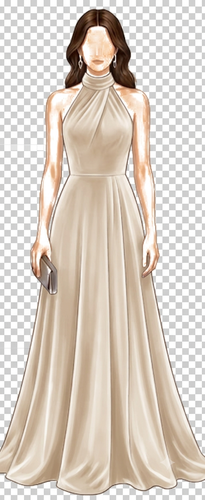
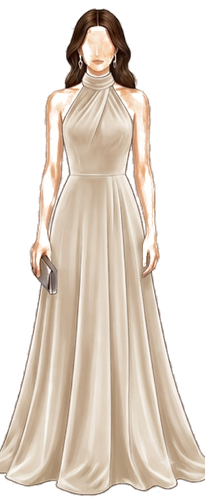
RSVP textos más grandes/visibles, fondos transparentes en dibujos
- rsvp-sub: 17px, color sólido (sin opacidad), b en dorado
- rsvp-dl: 20px
- rsvp-note: 16px, sin opacity, margin-bottom 28px (separar de botones)
- dama.png y caballero.png: fondos removidos

diff --git a/index.html b/index.html
@@ -435,8 +435,9 @@ section::before{
 
 /* ── RSVP ─────────────────────────────────────────────── */
 #rsvp{background:var(--ink)}
-.rsvp-sub{text-align:center;font-size:15px;color:#CFC8AC;line-height:1.85;margin:14px 0 32px}
-.rsvp-dl{font-family:'Cormorant Garamond',serif;font-size:18px;color:var(--gold);font-style:italic}
+.rsvp-sub{text-align:center;font-size:17px;color:var(--cream);line-height:1.85;margin:14px 0 10px}
+.rsvp-sub b{color:var(--gold);font-weight:600}
+.rsvp-dl{font-family:'Cormorant Garamond',serif;font-size:20px;color:var(--gold);font-style:italic}
 .rsvp-std{max-width:420px;margin:0 auto;text-align:center}
 #rsvp-pases-note{font-family:'Cormorant Garamond',serif;font-style:italic;font-size:17px;color:var(--gold);margin:0 auto 18px;line-height:1.5}
 .rsvp-pases-display{max-width:340px;margin:0 auto 22px;padding:14px 26px;background:var(--gold-dim);border:1px solid rgba(164,128,70,.4);border-radius:10px;display:flex;align-items:center;justify-content:space-between;gap:14px}
@@ -913,7 +914,7 @@ section::before{
   <h2 class="ttl shine">¿Nos acompañas?</h2>
   <div class="gline"></div>
   <p class="rsvp-sub">Por favor confirma tu asistencia <b>antes del</b><br><span class="rsvp-dl">6 de Diciembre de 2026</span></p>
-  <p class="rsvp-note" style="font-family:'Cormorant Garamond',serif;font-size:14px;color:var(--cream);opacity:.85;max-width:340px;margin:12px auto 0;line-height:1.7;text-align:center">Únicamente los nombres registrados en los campos de abajo serán considerados en la lista de confirmados.</p>
+  <p class="rsvp-note" style="font-family:'Cormorant Garamond',serif;font-size:16px;color:var(--cream);max-width:360px;margin:14px auto 28px;line-height:1.7;text-align:center">Únicamente los nombres registrados en los campos de abajo serán considerados en la lista de confirmados.</p>
 
   <div class="rsvp-std">
     <p id="rsvp-pases-note" style="display:none"></p>
